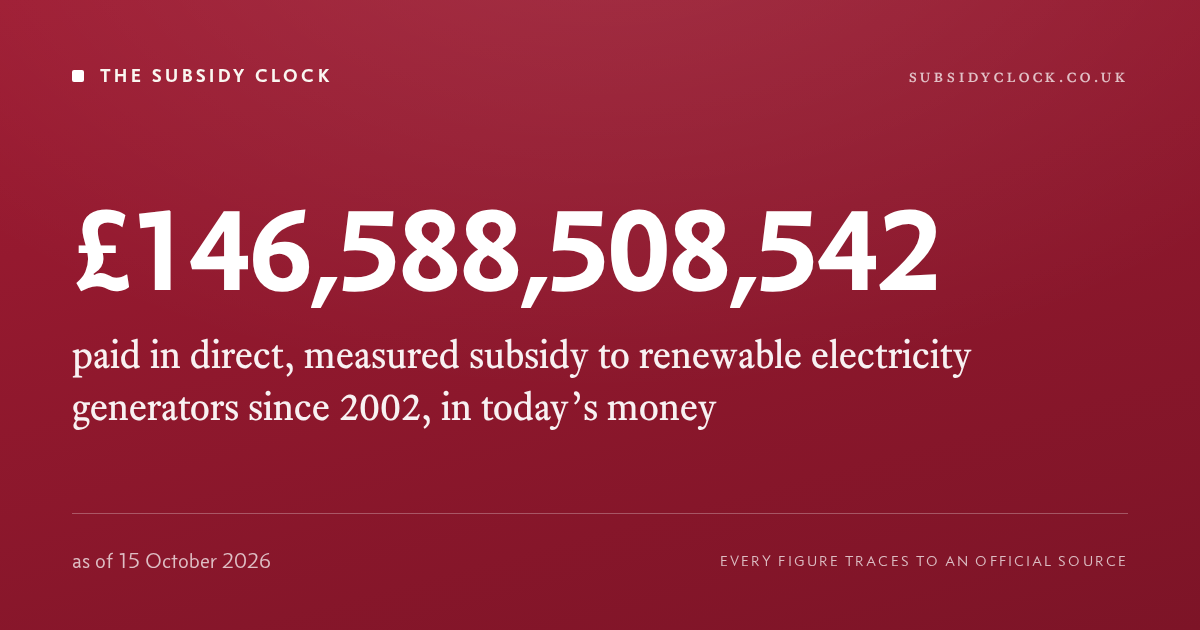
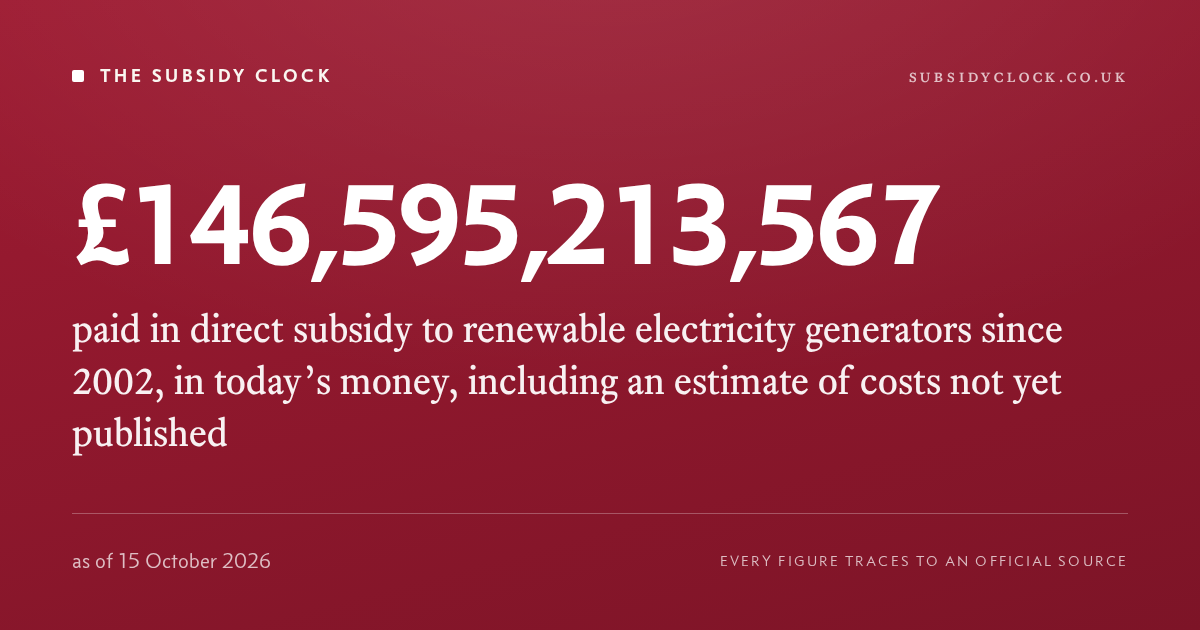
Share cards rebuilt for the carry-forward Clock; total/headline card labels say they include an estimate of costs not yet published (was 'measured'). Not pushed.

Changed region(s): [[0.0617, 0.2714, 0.8942, 0.7238]]

diff --git a/site/s/headline.html b/site/s/headline.html
@@ -3,14 +3,14 @@
 <head>
 <meta charset="utf-8">
 <meta name="robots" content="noindex">
-<title>£220,211,000,316 the full cost of subsidising UK renewables since 2002, including estimated indirect costs, in today’s money — The Subsidy Clock</title>
+<title>£220,221,262,954 the full cost of subsidising UK renewables since 2002, including estimated indirect costs and costs not yet published, in today’s money — The Subsidy Clock</title>
 <meta name="description" content="As of 15 October 2026. Every figure traces to an official source.">
-<meta property="og:title" content="£220,211,000,316 the full cost of subsidising UK renewables since 2002, including estimated indirect costs, in today’s money">
+<meta property="og:title" content="£220,221,262,954 the full cost of subsidising UK renewables since 2002, including estimated indirect costs and costs not yet published, in today’s money">
 <meta property="og:description" content="As of 15 October 2026. Every figure traces to an official source.">
 <meta property="og:type" content="website">
 <meta property="og:site_name" content="The Subsidy Clock">
 <meta property="og:url" content="https://subsidyclock.co.uk/s/headline">
-<meta property="og:image" content="https://subsidyclock.co.uk/share/headline.png?v=1ec9b71c7d">
+<meta property="og:image" content="https://subsidyclock.co.uk/share/headline.png?v=c451ecb66b">
 <meta property="og:image:width" content="1200">
 <meta property="og:image:height" content="630">
 <meta name="twitter:card" content="summary_large_image">
@@ -18,7 +18,7 @@
 <meta http-equiv="refresh" content="0;url=https://subsidyclock.co.uk/">
 </head>
 <body>
-<p>£220,211,000,316 the full cost of subsidising UK renewables since 2002, including estimated indirect costs, in today’s money (as of 15 October 2026) — <a href="https://subsidyclock.co.uk/">The Subsidy Clock</a>.</p>
+<p>£220,221,262,954 the full cost of subsidising UK renewables since 2002, including estimated indirect costs and costs not yet published, in today’s money (as of 15 October 2026) — <a href="https://subsidyclock.co.uk/">The Subsidy Clock</a>.</p>
 <script>location.replace("https://subsidyclock.co.uk/");</script>
 </body>
 </html>

diff --git a/site/s/total.html b/site/s/total.html
@@ -3,14 +3,14 @@
 <head>
 <meta charset="utf-8">
 <meta name="robots" content="noindex">
-<title>£146,588,508,542 paid in direct, measured subsidy to renewable electricity generators since 2002, in today’s money — The Subsidy Clock</title>
+<title>£146,595,213,567 paid in direct subsidy to renewable electricity generators since 2002, in today’s money, including an estimate of costs not yet published — The Subsidy Clock</title>
 <meta name="description" content="As of 15 October 2026. Every figure traces to an official source.">
-<meta property="og:title" content="£146,588,508,542 paid in direct, measured subsidy to renewable electricity generators since 2002, in today’s money">
+<meta property="og:title" content="£146,595,213,567 paid in direct subsidy to renewable electricity generators since 2002, in today’s money, including an estimate of costs not yet published">
 <meta property="og:description" content="As of 15 October 2026. Every figure traces to an official source.">
 <meta property="og:type" content="website">
 <meta property="og:site_name" content="The Subsidy Clock">
 <meta property="og:url" content="https://subsidyclock.co.uk/s/total">
-<meta property="og:image" content="https://subsidyclock.co.uk/share/total.png?v=6c111bcdc2">
+<meta property="og:image" content="https://subsidyclock.co.uk/share/total.png?v=4927d70941">
 <meta property="og:image:width" content="1200">
 <meta property="og:image:height" content="630">
 <meta name="twitter:card" content="summary_large_image">
@@ -18,7 +18,7 @@
 <meta http-equiv="refresh" content="0;url=https://subsidyclock.co.uk/">
 </head>
 <body>
-<p>£146,588,508,542 paid in direct, measured subsidy to renewable electricity generators since 2002, in today’s money (as of 15 October 2026) — <a href="https://subsidyclock.co.uk/">The Subsidy Clock</a>.</p>
+<p>£146,595,213,567 paid in direct subsidy to renewable electricity generators since 2002, in today’s money, including an estimate of costs not yet published (as of 15 October 2026) — <a href="https://subsidyclock.co.uk/">The Subsidy Clock</a>.</p>
 <script>location.replace("https://subsidyclock.co.uk/");</script>
 </body>
 </html>

diff --git a/site/papers/scotland-2026/index.html b/site/papers/scotland-2026/index.html
@@ -10,7 +10,7 @@
 <meta property="og:type" content="article">
 <meta property="og:site_name" content="The Subsidy Clock">
 <meta property="og:url" content="https://subsidyclock.co.uk/papers/scotland-2026">
-<meta property="og:image" content="https://subsidyclock.co.uk/share/headline.png?v=1ec9b71c7d">
+<meta property="og:image" content="https://subsidyclock.co.uk/share/headline.png?v=c451ecb66b">
 <meta property="og:image:width" content="1200">
 <meta property="og:image:height" content="630">
 <meta name="twitter:card" content="summary_large_image">

diff --git a/site/corrections.html b/site/corrections.html
@@ -11,7 +11,7 @@
 <meta property="og:type" content="website">
 <meta property="og:site_name" content="The Subsidy Clock">
 <meta property="og:url" content="https://subsidyclock.co.uk/corrections">
-<meta property="og:image" content="https://subsidyclock.co.uk/share/headline.png?v=1ec9b71c7d">
+<meta property="og:image" content="https://subsidyclock.co.uk/share/headline.png?v=c451ecb66b">
 <meta property="og:image:width" content="1200">
 <meta property="og:image:height" content="630">
 <meta name="twitter:card" content="summary_large_image">

diff --git a/site/methodology.html b/site/methodology.html
@@ -11,7 +11,7 @@
 <meta property="og:type" content="website">
 <meta property="og:site_name" content="The Subsidy Clock">
 <meta property="og:url" content="https://subsidyclock.co.uk/methodology">
-<meta property="og:image" content="https://subsidyclock.co.uk/share/headline.png?v=1ec9b71c7d">
+<meta property="og:image" content="https://subsidyclock.co.uk/share/headline.png?v=c451ecb66b">
 <meta property="og:image:width" content="1200">
 <meta property="og:image:height" content="630">
 <meta name="twitter:card" content="summary_large_image">

diff --git a/site/changelog.html b/site/changelog.html
@@ -11,7 +11,7 @@
 <meta property="og:type" content="website">
 <meta property="og:site_name" content="The Subsidy Clock">
 <meta property="og:url" content="https://subsidyclock.co.uk/changelog">
-<meta property="og:image" content="https://subsidyclock.co.uk/share/headline.png?v=1ec9b71c7d">
+<meta property="og:image" content="https://subsidyclock.co.uk/share/headline.png?v=c451ecb66b">
 <meta property="og:image:width" content="1200">
 <meta property="og:image:height" content="630">
 <meta name="twitter:card" content="summary_large_image">

diff --git a/site/scotland.html b/site/scotland.html
@@ -11,7 +11,7 @@
 <meta property="og:type" content="website">
 <meta property="og:site_name" content="The Subsidy Clock">
 <meta property="og:url" content="https://subsidyclock.co.uk/scotland">
-<meta property="og:image" content="https://subsidyclock.co.uk/share/headline.png?v=1ec9b71c7d">
+<meta property="og:image" content="https://subsidyclock.co.uk/share/headline.png?v=c451ecb66b">
 <meta property="og:image:width" content="1200">
 <meta property="og:image:height" content="630">
 <meta name="twitter:card" content="summary_large_image">

diff --git a/site/about.html b/site/about.html
@@ -11,7 +11,7 @@
 <meta property="og:type" content="website">
 <meta property="og:site_name" content="The Subsidy Clock">
 <meta property="og:url" content="https://subsidyclock.co.uk/about">
-<meta property="og:image" content="https://subsidyclock.co.uk/share/headline.png?v=1ec9b71c7d">
+<meta property="og:image" content="https://subsidyclock.co.uk/share/headline.png?v=c451ecb66b">
 <meta property="og:image:width" content="1200">
 <meta property="og:image:height" content="630">
 <meta name="twitter:card" content="summary_large_image">

diff --git a/site/embed.html b/site/embed.html
@@ -11,7 +11,7 @@
 <meta property="og:type" content="website">
 <meta property="og:site_name" content="The Subsidy Clock">
 <meta property="og:url" content="https://subsidyclock.co.uk/embed">
-<meta property="og:image" content="https://subsidyclock.co.uk/share/headline.png?v=1ec9b71c7d">
+<meta property="og:image" content="https://subsidyclock.co.uk/share/headline.png?v=c451ecb66b">
 <meta property="og:image:width" content="1200">
 <meta property="og:image:height" content="630">
 <meta name="twitter:card" content="summary_large_image">

diff --git a/site/share.html b/site/share.html
@@ -11,7 +11,7 @@
 <meta property="og:type" content="website">
 <meta property="og:site_name" content="The Subsidy Clock">
 <meta property="og:url" content="https://subsidyclock.co.uk/share">
-<meta property="og:image" content="https://subsidyclock.co.uk/share/headline.png?v=1ec9b71c7d">
+<meta property="og:image" content="https://subsidyclock.co.uk/share/headline.png?v=c451ecb66b">
 <meta property="og:image:width" content="1200">
 <meta property="og:image:height" content="630">
 <meta name="twitter:card" content="summary_large_image">

diff --git a/site/data.html b/site/data.html
@@ -11,7 +11,7 @@
 <meta property="og:type" content="website">
 <meta property="og:site_name" content="The Subsidy Clock">
 <meta property="og:url" content="https://subsidyclock.co.uk/data">
-<meta property="og:image" content="https://subsidyclock.co.uk/share/headline.png?v=1ec9b71c7d">
+<meta property="og:image" content="https://subsidyclock.co.uk/share/headline.png?v=c451ecb66b">
 <meta property="og:image:width" content="1200">
 <meta property="og:image:height" content="630">
 <meta name="twitter:card" content="summary_large_image">

diff --git a/site/map.html b/site/map.html
@@ -11,7 +11,7 @@
 <meta property="og:type" content="website">
 <meta property="og:site_name" content="The Subsidy Clock">
 <meta property="og:url" content="https://subsidyclock.co.uk/map">
-<meta property="og:image" content="https://subsidyclock.co.uk/share/headline.png?v=1ec9b71c7d">
+<meta property="og:image" content="https://subsidyclock.co.uk/share/headline.png?v=c451ecb66b">
 <meta property="og:image:width" content="1200">
 <meta property="og:image:height" content="630">
 <meta name="twitter:card" content="summary_large_image">
